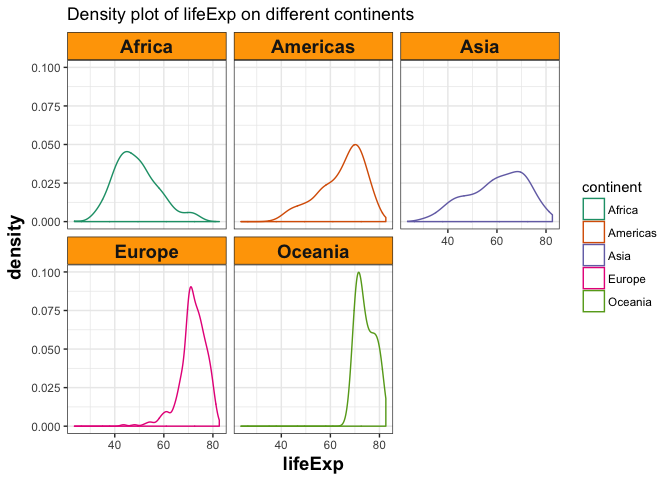
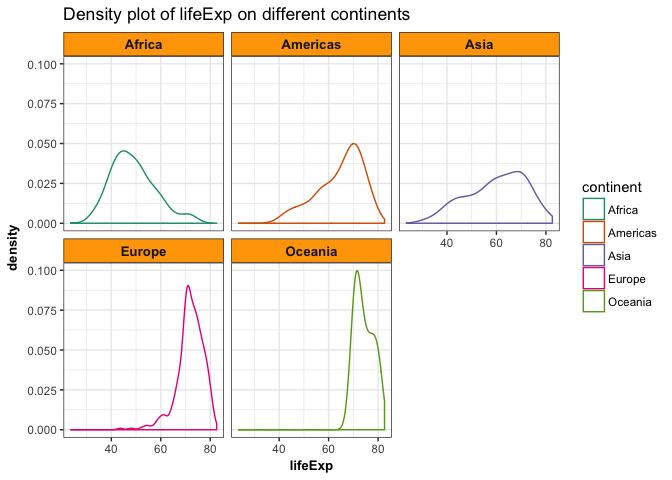
edit plot

diff --git a/hw05/hw05.md b/hw05/hw05.md
@@ -2342,8 +2342,8 @@ p2<- ggplot(gapminder, aes(x = lifeExp, color = continent)) + geom_density() +
   
   theme_bw() +
   theme(strip.background = element_rect(fill="orange"),
-          axis.title = element_text(size=14,face="bold"),
-          strip.text = element_text(size=14, face="bold"))
+          axis.title = element_text(size=10,face="bold"),
+          strip.text = element_text(size=10, face="bold"))
 p2
 ```
 
@@ -2415,10 +2415,10 @@ Writing figures to file
 
 ``` r
 ggsave("myplot2.png", 
-       device =  "png",width = 6, height = 6)
+       device =  "png",width = 5, height = 4)
 
 ggsave("myplot1.png", plot=p1,
-       device =  "png",width = 6, height = 6)
+       device =  "png",width = 5, height = 3.5)
 ```
 
 **Note**: Explicit provision of the plot object p2 is not necessary since p2 is the last plot displayed. However, it is necessary for p1 because p1 is a plot we made earlier.
